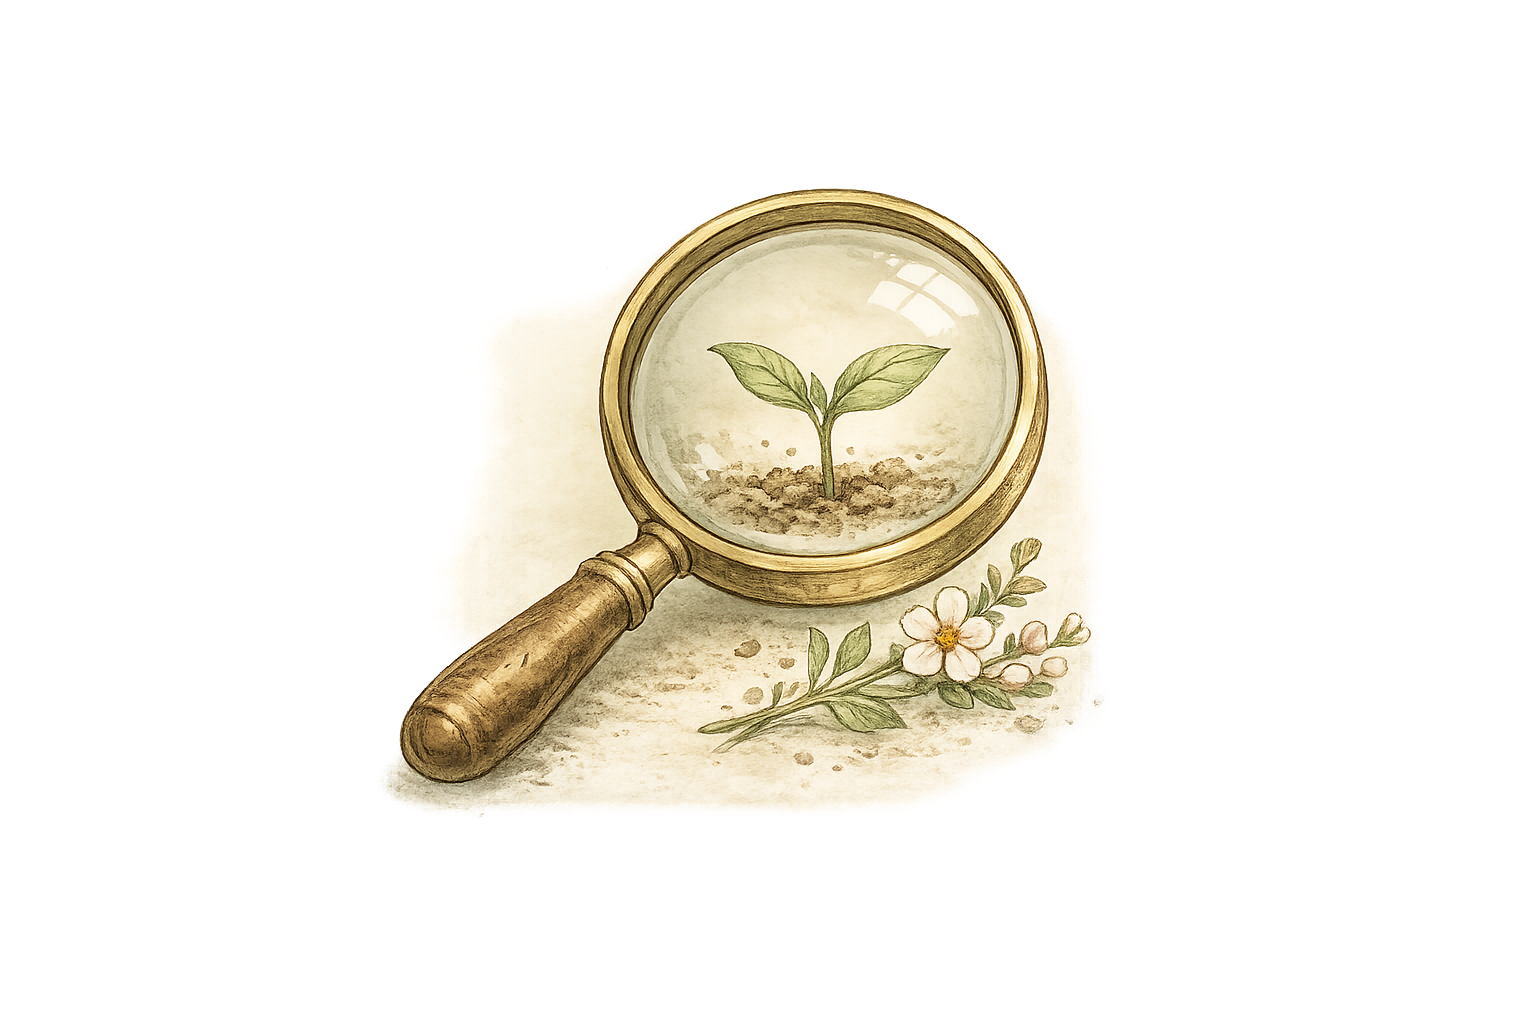
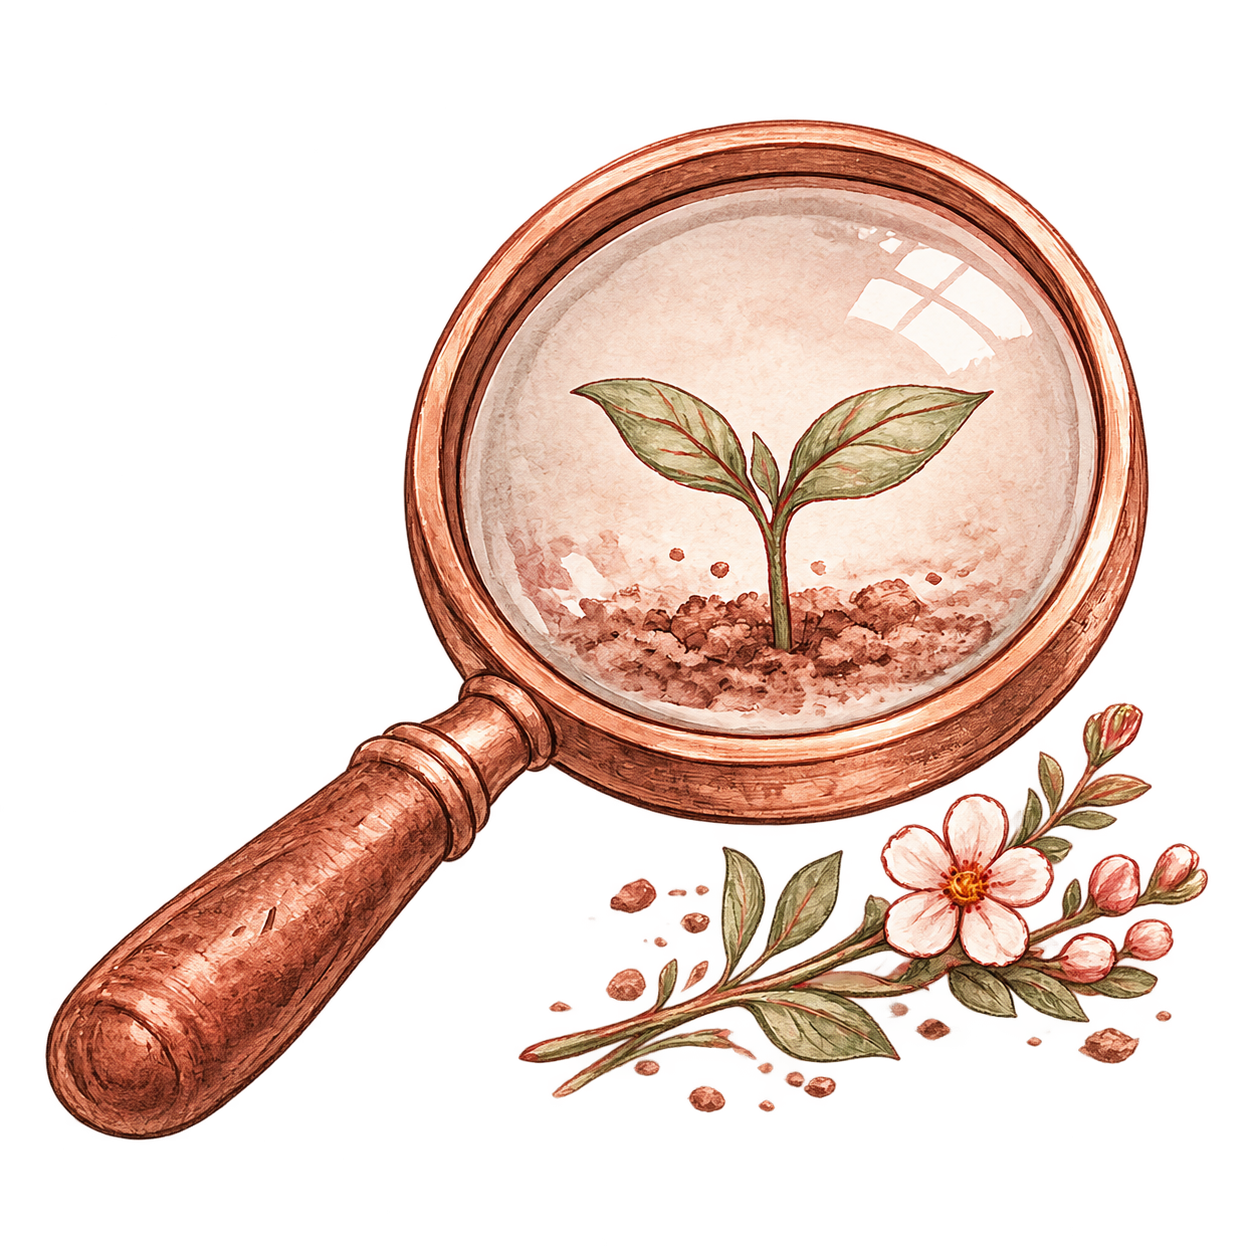
Added Mixed Garden type, updated home page layout to include new tile, renamed MyGarden to MyCalendar and added Default Garden creation for user

diff --git a/frontend/src/pages/HomePage.jsx b/frontend/src/pages/HomePage.jsx
@@ -10,7 +10,7 @@ import "./HomePage.css";
 
 const GARDEN_LINKS = [
   {
-    label: "My Gardens",
+    label: "My Calendar",
     to: "/mygarden",
     type: "gardens",
     img: "/tiles/gardens.png",
@@ -38,6 +38,12 @@ const GARDEN_LINKS = [
     to: "/mygarden?type=flower",
     type: "flower",
     img: "/tiles/flowers.png",
+  },
+  {
+    label: "My Mixed",
+    to: "/mygarden?type=mixed",
+    type: "mixed",
+    img: "/tiles/mixed.png",
   },
 ];
 
@@ -88,7 +94,7 @@ export default function HomePage() {
   return (
     <div>
       <div className="text-center gb-page-heading">
-        <h1 className="gb-wordmark fs-3">Gardening, simplified.</h1>
+        <h1 className="gb-wordmark fs-2">Gardening, simplified.</h1>
         <p className="text-body-secondary">
           Welcome back, {user.displayName}. Where would you like to start?
         </p>
@@ -108,14 +114,36 @@ export default function HomePage() {
             </Link>
           </Col>
         ))}
-        <Col lg={4} md={4} sm={6} xs={6}>
-          <Link
-            to="/explore"
-            className="gb-home-tile gb-home-tile-explore"
-            style={{ "--tile-accent": "var(--gb-explore)" }}
-          >
-            <img className="gb-home-tile-img" src="/tiles/explore.png" alt="" />
-            <span className="gb-home-tile-label">Explore Plants</span>
+      </Row>
+      <Row className="g-3 justify-content-center mt-3">
+        <Col xs={12}>
+          <Link to="/explore" className="gb-home-explore-banner">
+            <img
+              className="gb-home-explore-img"
+              src="/tiles/explore.png"
+              alt=""
+            />
+            <span className="gb-home-explore-text">
+              <span className="gb-home-explore-title">Explore Plants</span>
+              <span className="gb-home-explore-sub">
+                Browse the full catalog and find what&apos;s ready to plant this
+                week
+              </span>
+            </span>
+            <span className="gb-home-explore-cue" aria-hidden="true">
+              Browse
+              <svg
+                viewBox="0 0 24 24"
+                fill="none"
+                stroke="currentColor"
+                strokeWidth="2"
+                strokeLinecap="round"
+                strokeLinejoin="round"
+              >
+                <line x1="5" y1="12" x2="19" y2="12" />
+                <polyline points="12 5 19 12 12 19" />
+              </svg>
+            </span>
           </Link>
         </Col>
       </Row>

diff --git a/frontend/src/pages/HomePage.css b/frontend/src/pages/HomePage.css
@@ -44,6 +44,90 @@
   font-size: 1.15rem;
 }
 
-.gb-home-tile-explore {
-  background-color: color-mix(in srgb, var(--gb-explore) 8%, var(--gb-surface));
+.gb-home-explore-banner {
+  display: flex;
+  align-items: center;
+  gap: 1.00rem;
+  padding: 1.25rem 1.75rem;
+  border-radius: 12px;
+  background-color: color-mix(in srgb, var(--gb-crimson) 6%, var(--gb-surface));
+  border: 1px solid var(--gb-border);
+  border-left: 4px solid var(--gb-crimson);
+  color: var(--gb-text);
+  text-decoration: none;
+  transition:
+    box-shadow 0.15s ease,
+    transform 0.15s ease;
+}
+
+.gb-home-explore-banner:hover,
+.gb-home-explore-banner:focus-visible {
+  color: var(--gb-text);
+  box-shadow: 0 4px 14px rgba(74, 63, 53, 0.16);
+  transform: translateY(-2px);
+  outline: none;
+}
+
+.gb-home-explore-banner:focus-visible {
+  box-shadow:
+    0 4px 14px rgba(74, 63, 53, 0.16),
+    0 0 0 0.2rem rgba(157, 74, 67, 0.35);
+}
+
+.gb-home-explore-img {
+  flex-shrink: 0;
+  width: 7rem;
+  height: 7rem;
+  object-fit: contain;
+}
+
+.gb-home-explore-text {
+  display: flex;
+  flex-direction: column;
+  flex: 1;
+}
+
+.gb-home-explore-cue {
+  flex-shrink: 0;
+  display: flex;
+  align-items: center;
+  gap: 0.4rem;
+  color: var(--gb-crimson);
+  font-family: "EB Garamond", Georgia, serif;
+  font-weight: 600;
+  font-size: 1rem;
+}
+
+.gb-home-explore-cue svg {
+  width: 1.15rem;
+  height: 1.15rem;
+}
+
+.gb-home-explore-title {
+  font-family: "EB Garamond", Georgia, serif;
+  font-weight: 600;
+  font-size: 1.15rem;
+}
+
+.gb-home-explore-sub {
+  font-size: 0.85rem;
+  color: var(--gb-text-muted);
+  margin-top: 0.15rem;
+}
+
+@media (max-width: 575.98px) {
+  .gb-home-explore-banner {
+    flex-direction: column;
+    text-align: center;
+    gap: 0.75rem;
+    padding: 1.25rem;
+  }
+
+  .gb-home-explore-text {
+    align-items: center;
+  }
+
+  .gb-home-explore-cue {
+    justify-content: center;
+  }
 }

diff --git a/frontend/src/components/PlantDetailModal.jsx b/frontend/src/components/PlantDetailModal.jsx
@@ -34,12 +34,17 @@ export default function PlantDetailModal({ plantId = null, onClose }) {
     })();
   }, [plantId]);
 
-  // Load the user's gardens for the dropdown.
+  // Load the user's gardens for the dropdown. Added default selection here.
   useEffect(() => {
     if (!plantId || !user) return;
     (async () => {
       const res = await fetch("/api/gardens");
-      if (res.ok) setGardens((await res.json()).gardens);
+      if (!res.ok) return;
+      const { gardens: fetchedGardens } = await res.json();
+      setGardens(fetchedGardens);
+      if (fetchedGardens.length > 0) {
+        setForm((f) => ({ ...f, gardenId: fetchedGardens[0]._id }));
+      }
     })();
   }, [plantId, user]);
 
@@ -95,7 +100,21 @@ export default function PlantDetailModal({ plantId = null, onClose }) {
         )}
       </Modal.Body>
       <Modal.Footer>
-        {user ? (
+        {user && gardens.length === 0 ? (
+          <div className="w-100 text-center">
+            <p className="text-body-secondary mb-2">
+              You don&apos;t have a garden yet.
+            </p>
+            <Button
+              as={Link}
+              to="/gardens?new=1"
+              variant="gb-primary"
+              className="w-100"
+            >
+              Create a garden
+            </Button>
+          </div>
+        ) : user ? (
           <Form
             onSubmit={onAdd}
             className="gb-add-to-garden d-flex gap-2 w-100 flex-wrap"
@@ -106,7 +125,6 @@ export default function PlantDetailModal({ plantId = null, onClose }) {
               onChange={(e) => setForm({ ...form, gardenId: e.target.value })}
               required
             >
-              <option value="">Select a garden</option>
               {gardens.map((garden) => (
                 <option key={garden._id} value={garden._id}>
                   {garden.name}

diff --git a/seed/seedUsers.js b/seed/seedUsers.js
@@ -4,7 +4,8 @@ import { connectToDb, getDb } from "../db/connection.js";
 
 const SYNTHETIC_DOMAIN = "garden.example";
 const DEMO_EMAIL = "demo@neu.edu";
-const GARDEN_TYPES = ["vegetable", "herb", "fruit", "flower"];
+const GARDEN_TYPES = ["vegetable", "herb", "fruit", "flower", "mixed"];
+const DEFAULT_GARDEN_NAME = "My Garden";
 
 const FIRST = [
   "Ava",
@@ -95,13 +96,23 @@ async function seed() {
     },
     createdAt: new Date(),
   };
+  
   const demoResult = await users.insertOne(demoDoc);
-  const demoGardens = GARDEN_TYPES.map((type, i) => ({
+  const demoGardens = GARDEN_TYPES.filter((t) => t !== "mixed").map(
+    (type, i) => ({
+      userId: demoResult.insertedId,
+      name: `${pick(GARDEN_ADJ, i)} ${type}s`,
+      type,
+      createdAt: new Date(),
+    })
+  );
+  // Default garden addition here.
+  demoGardens.push({
     userId: demoResult.insertedId,
-    name: `${pick(GARDEN_ADJ, i)} ${type}s`,
-    type,
+    name: DEFAULT_GARDEN_NAME,
+    type: "mixed",
     createdAt: new Date(),
-  }));
+  });
   await gardens.insertMany(demoGardens);
 
   const sharedHash = await bcrypt.hash("password123", 10);
@@ -128,7 +139,15 @@ async function seed() {
 
   const gardenDocs = [];
   insertedUserIds.forEach((userId, i) => {
-    const count = 2 + (i % 3); // 2, 3, or 4
+    // Default garden every user gets.
+    gardenDocs.push({
+      userId,
+      name: DEFAULT_GARDEN_NAME,
+      type: "mixed",
+      createdAt: new Date(),
+    });
+
+    const count = 2 + (i % 3);
     for (let g = 0; g < count; g++) {
       const type = pick(GARDEN_TYPES, i + g);
       gardenDocs.push({

diff --git a/models/gardens.js b/models/gardens.js
@@ -3,11 +3,13 @@ import { getDb } from "../db/connection.js";
 
 // Aleena — gardens CRUD
 // Document shape: { _id, userId, name, type, createdAt }
-// type: "vegetable" | "herb" | "fruit" | "flower"
+// type: "vegetable" | "herb" | "fruit" | "flower" | "mixed"
 
 const gardens = () => getDb().collection("gardens");
 
-export const GARDEN_TYPES = ["vegetable", "herb", "fruit", "flower"];
+export const GARDEN_TYPES = ["vegetable", "herb", "fruit", "flower", "mixed"];
+export const DEFAULT_GARDEN_NAME = "My Garden";
+export const DEFAULT_GARDEN_TYPE = "mixed";
 const oid = (v) => (v instanceof ObjectId ? v : new ObjectId(v));
 
 export const findGardensByUser = async (userId) => {
@@ -56,6 +58,14 @@ export const updateGarden = async (userId, gardenId, updates) => {
     { returnDocument: "after" }
   );
   return updated;
+};
+
+//Added a default garden creation instead of empty dropdown in Explore.
+export const createDefaultGarden = async (userId) => {
+  return createGarden(userId, {
+    name: DEFAULT_GARDEN_NAME,
+    type: DEFAULT_GARDEN_TYPE,
+  });
 };
 
 export const deleteGarden = async (userId, gardenId) => {

diff --git a/routes/Auth.js b/routes/Auth.js
@@ -10,6 +10,7 @@ import {
   deleteUserAndData,
 } from "../models/users.js";
 import { resolveRegion } from "../lib/region.js";
+import { createDefaultGarden } from "../models/gardens.js";
 
 const router = express.Router();
 
@@ -38,6 +39,13 @@ router.post("/register", async (req, res) => {
       displayName,
       region,
     });
+
+    // Default garden addition plus failsafe error message.
+    try {
+      await createDefaultGarden(user._id);
+    } catch (gardenError) {
+      console.error("Could not create default garden:", gardenError.message);
+    }
 
     delete user.passwordHash;
     res.status(201).json({ message: "User created successfully", user });

diff --git a/frontend/src/index.css b/frontend/src/index.css
@@ -22,12 +22,14 @@
   --gb-herb: #f2e3b6; /* butter */
   --gb-fruit: #797c99; /* slate */
   --gb-flower: #bf665e; /* terracotta */
+  --gb-mixed: #918b8b; /* gray */
 
   /* garden types — tints for chip backgrounds (ink text passes on all) */
   --gb-vegetable-tint: #d7d0b3; /* 6.6  */
   --gb-herb-tint: #f2e7cc; /* 8.32 */
   --gb-fruit-tint: #c8c3c2; /* 5.86 */
   --gb-flower-tint: #e0bbad; /* 5.79 */
+  --gb-mixed-tint: #ddd4c3; /* 6.99 */
 }
 
 body {

diff --git a/frontend/src/components/GardenFormModal.jsx b/frontend/src/components/GardenFormModal.jsx
@@ -7,7 +7,7 @@ import Form from "react-bootstrap/Form";
 // Added screen reader accessibility: controlId=" "
 // Made errors audible with role="alert"
 
-const GARDEN_TYPES = ["vegetable", "herb", "fruit", "flower"];
+const GARDEN_TYPES = ["vegetable", "herb", "fruit", "flower", "mixed"];
 
 export default function GardenFormModal({ show, garden, onClose, onSubmit }) {
   const [name, setName] = useState("");

diff --git a/frontend/src/components/NavigationBar.jsx b/frontend/src/components/NavigationBar.jsx
@@ -34,7 +34,7 @@ export default function NavigationBar() {
             {user && (
               <>
                 <Nav.Link as={Link} to="/mygarden">
-                  MyGarden
+                  MyCalendar
                 </Nav.Link>
                 <Nav.Link as={Link} to="/gardens">
                   Gardens

diff --git a/frontend/src/components/GardenTypeToggle.jsx b/frontend/src/components/GardenTypeToggle.jsx
@@ -9,6 +9,7 @@ const TYPES = [
   { label: "Herbs", to: "/mygarden?type=herb" },
   { label: "Fruits", to: "/mygarden?type=fruit" },
   { label: "Flowers", to: "/mygarden?type=flower" },
+  { label: "Mixed", to: "/mygarden?type=mixed" },
 ];
 
 export default function GardenTypeToggle({ activeType }) {

diff --git a/routes/Calendar.js b/routes/Calendar.js
@@ -13,6 +13,7 @@ const TYPE_COLORS = {
   herb: "#c9963f",
   fruit: "#7c8cc4",
   flower: "#9c7fb5",
+  mixed: "#918b8b",
 };
 
 function weekStartOf(weekParam) {
